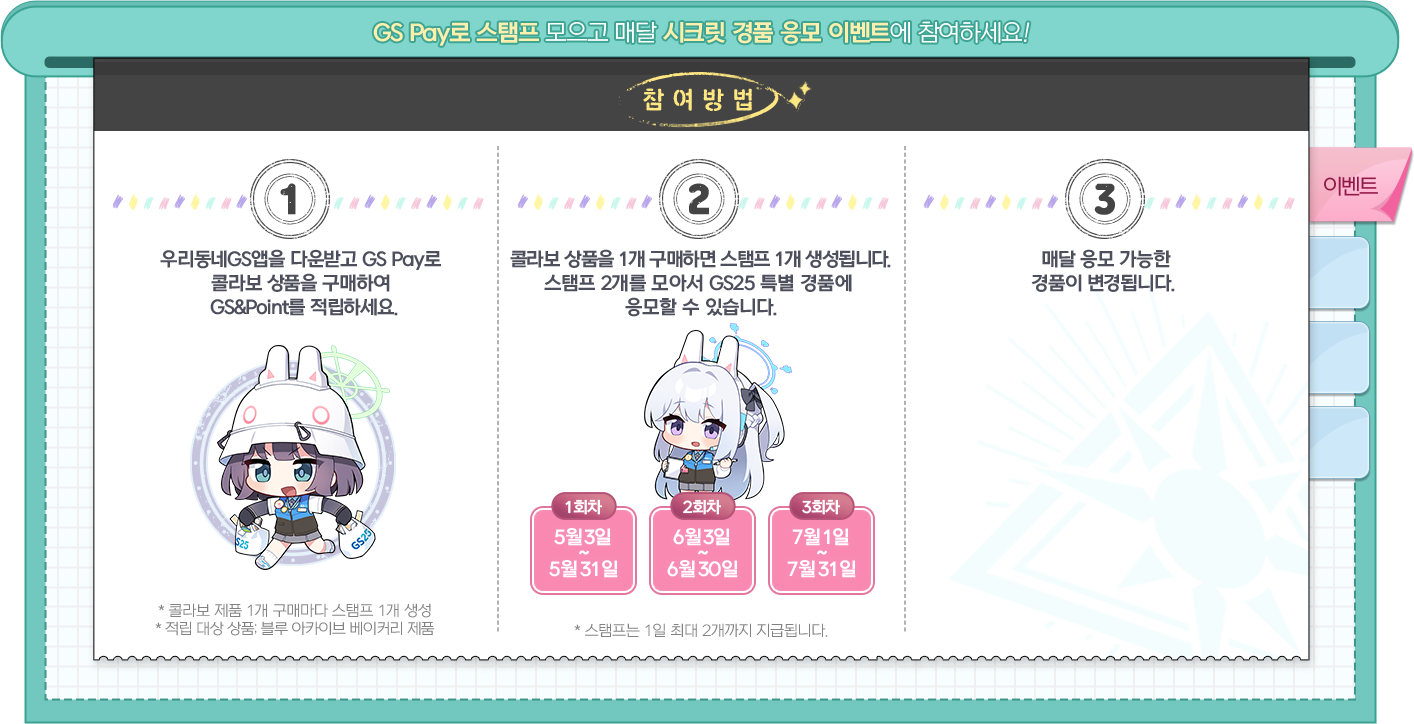
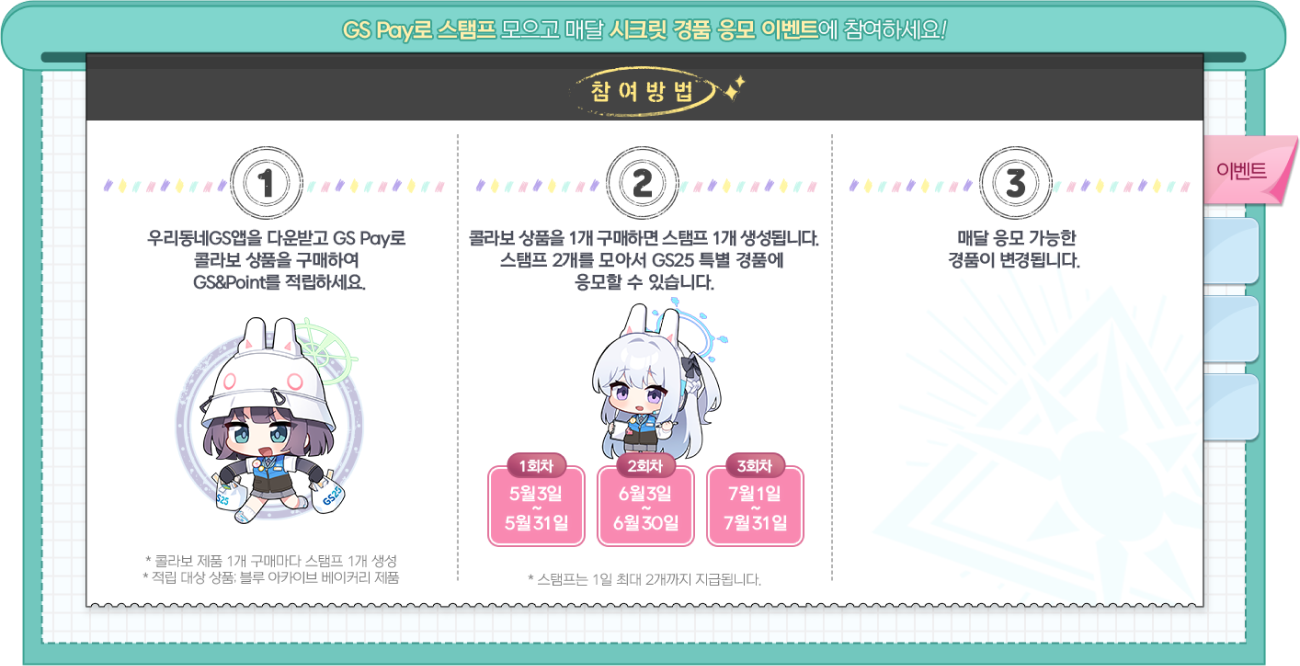
d
d

diff --git a/70_pf/bluearchive/bluearchive_sec2.html b/70_pf/bluearchive/bluearchive_sec2.html
@@ -23,7 +23,7 @@
             </div>
 
             <ul>
-                <li id="bt1"><a href="#tab1">빵</a></li>
+                <li id="bt1" class="ck"><a href="#tab1">콜라보 베이커리</a></li>
                 <li id="bt3"><a href="#tab3">스템프 이벤트</a></li>
                 <li id="bt4"><a href="#tab4">굿즈</a></li>
             </ul>
@@ -32,8 +32,18 @@
                 <div id="tab3">
                     <h2><span>우리동네</span><span class="sp1">GS</span> 스템프 이벤트</h2>
                     <img src="image/cont_0530il22lo5.png" alt="스템프">
+                    <div class="btn">
+                        <button>5월 스템프 이벤트 경품 소개</button>
+                        <button>6월 스템프 이벤트 경품 소개</button>
+                        <button>7월 스템프 이벤트 경품 소개</button>
+                    </div>
                 </div>
-                <div id="tab4">굿즈</div>
+                <div id="tab4">
+                    <p>RABBIT 소대가 열심히 오픈 준비한 SRT 특별 매장 운영 예정!</p>
+                    <h2><span>GS</span><span class="sp1">25</span> X 블루 아카이브 SRT 특별 매장</h2>
+                    <p><span><b>기간:</b></span> 5월 18일(토) ~ 5월 31일(금)</p>
+                    <img src="image/cont2.png" alt="굿즈">
+                </div>
             </div>
         </div>
     </section>
@@ -44,29 +54,44 @@
         const bt3 = document.querySelector('#bt3');
         const bt4 = document.querySelector('#bt4');
 
+        const btn = document.querySelectorAll('.btn');
+
         // 요소 찾기: 탭1, 2, 3, 4
         const cont1 = document.querySelector('#tab1');
         const cont3 = document.querySelector('#tab3');
         const cont4 = document.querySelector('#tab4');
 
-        // 이벤트 추가
+        // 이벤트 추가 - 탭 + 버튼
         bt1.onclick = function () {
             cont1.classList.add('on');
             cont3.classList.remove('on');
             cont4.classList.remove('on');
+
+            bt1.classList.add('ck');
+            bt3.classList.remove('ck');
+            bt4.classList.remove('ck');
         };
 
         bt3.onclick = function () {
             cont3.classList.add('on');
             cont1.classList.remove('on');
             cont4.classList.remove('on');
+
+            bt3.classList.add('ck');
+            bt1.classList.remove('ck');
+            bt4.classList.remove('ck');
         };
 
         bt4.onclick = function () {
             cont4.classList.add('on');
             cont3.classList.remove('on');
             cont1.classList.remove('on');
+
+            bt4.classList.add('ck');
+            bt3.classList.remove('ck');
+            bt1.classList.remove('ck');
         };
+
 
     </script>
 </body>

diff --git a/70_pf/bluearchive/style/section2.css b/70_pf/bluearchive/style/section2.css
@@ -5,6 +5,11 @@ body {
     background: url(../image/bg.jpg) no-repeat 100% 100%/cover fixed;
 }
 
+.ck {
+    color: #f0f6f8;
+    background: #007ccf;
+}
+
 /* //전체 */
 
 /* tabs */
@@ -70,12 +75,62 @@ ul>li {
 /* tab1 */
 /* //tab1 */
 
-/* tab2 */
+/* tab3 */
+#tab3 {
+    display: flex;
+    flex-direction: column;
+    align-items: center;
+    position: relative;
+}
+
 #tab3>h2 {
+    margin: 0;
     padding: 30px 0;
 }
 
-/* //tab2 */
+#tab3 image {
+    display: block;
+    width: 1300px;
+}
+
+.btn {
+    position: absolute;
+    display: flex;
+    flex-direction: column;
+    right: 14%;
+    top: 55%;
+}
+
+.btn>button {
+    margin-bottom: 20px;
+    width: 200px;
+    height: 60px;
+    border-radius: 20px;
+    color: #F0F6F8;
+    background: #00D4EA;
+}
+
+.btn>button:active {
+    color: #F0F6F8;
+    background: #007cff;
+}
+
+/* //tab3 */
+
+/* teb4 */
+
+#tab4 p {
+    padding: 20px 0;
+}
+
+#tab4 h2 {
+    padding: 0;
+    margin: 0;
+}
+
+
+
+/* //teb4 */
 
 
 /* //section */
